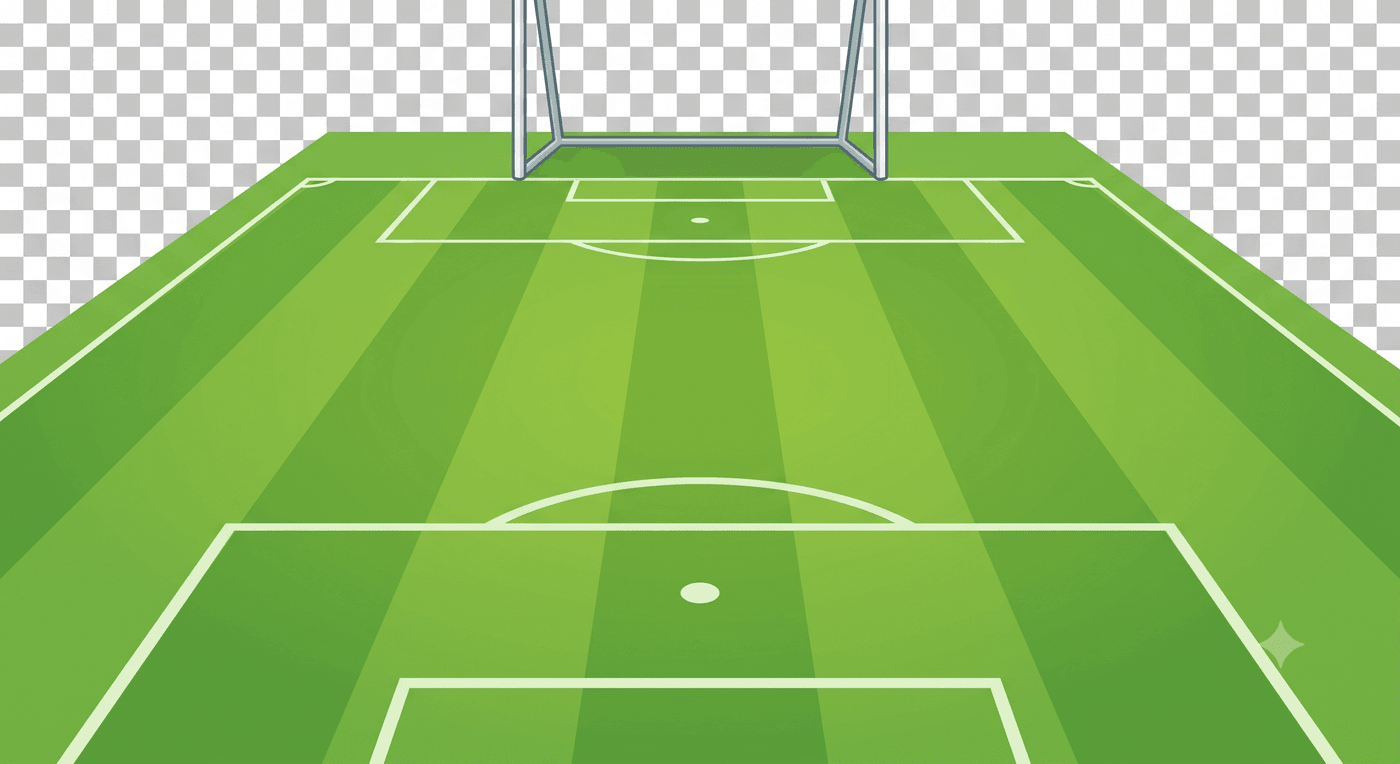
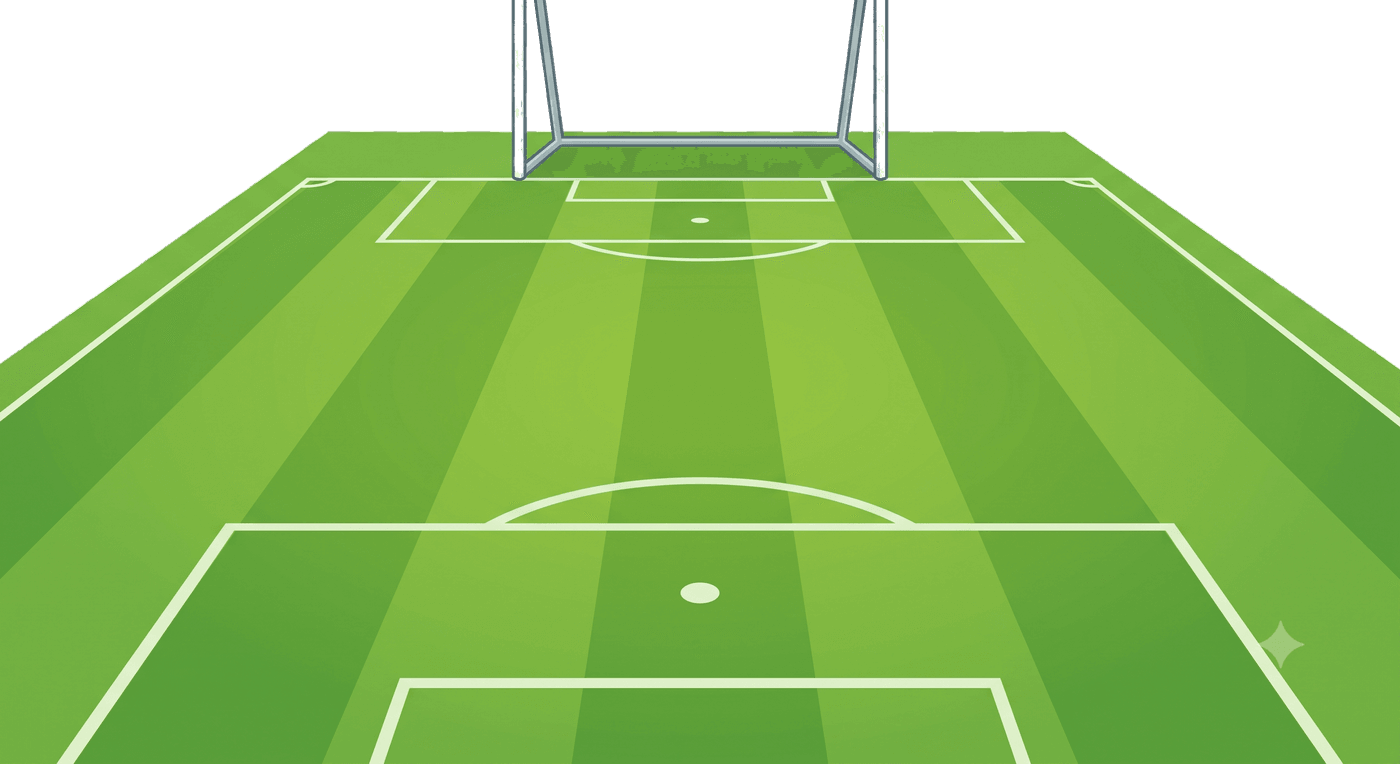
Football game: strip baked-in checkerboard from assets, fill pitch, stadium backdrop

Changed region(s): [[0.0, 0.0, 1.0, 0.4817]]

diff --git a/nihon/lib/features/games/football_quiz/football_quiz_screen.dart b/nihon/lib/features/games/football_quiz/football_quiz_screen.dart
@@ -352,12 +352,16 @@ class _FootballQuizScreenState extends State<FootballQuizScreen>
           child: Stack(
             fit: StackFit.expand,
             children: [
+              // Khán đài làm nền (lộ ra ở phần trời phía trên sân).
+              Positioned.fill(
+                child: Image.asset(_asStadium, fit: BoxFit.cover),
+              ),
               // Nền sân cỏ phủ kín vùng chơi (khung thành ở phía trên).
               Positioned.fill(
                 child: Image.asset(
                   _asField,
                   fit: BoxFit.cover,
-                  alignment: Alignment.topCenter,
+                  alignment: Alignment.bottomCenter,
                 ),
               ),
               // Thủ môn (đứng trước khung thành).
